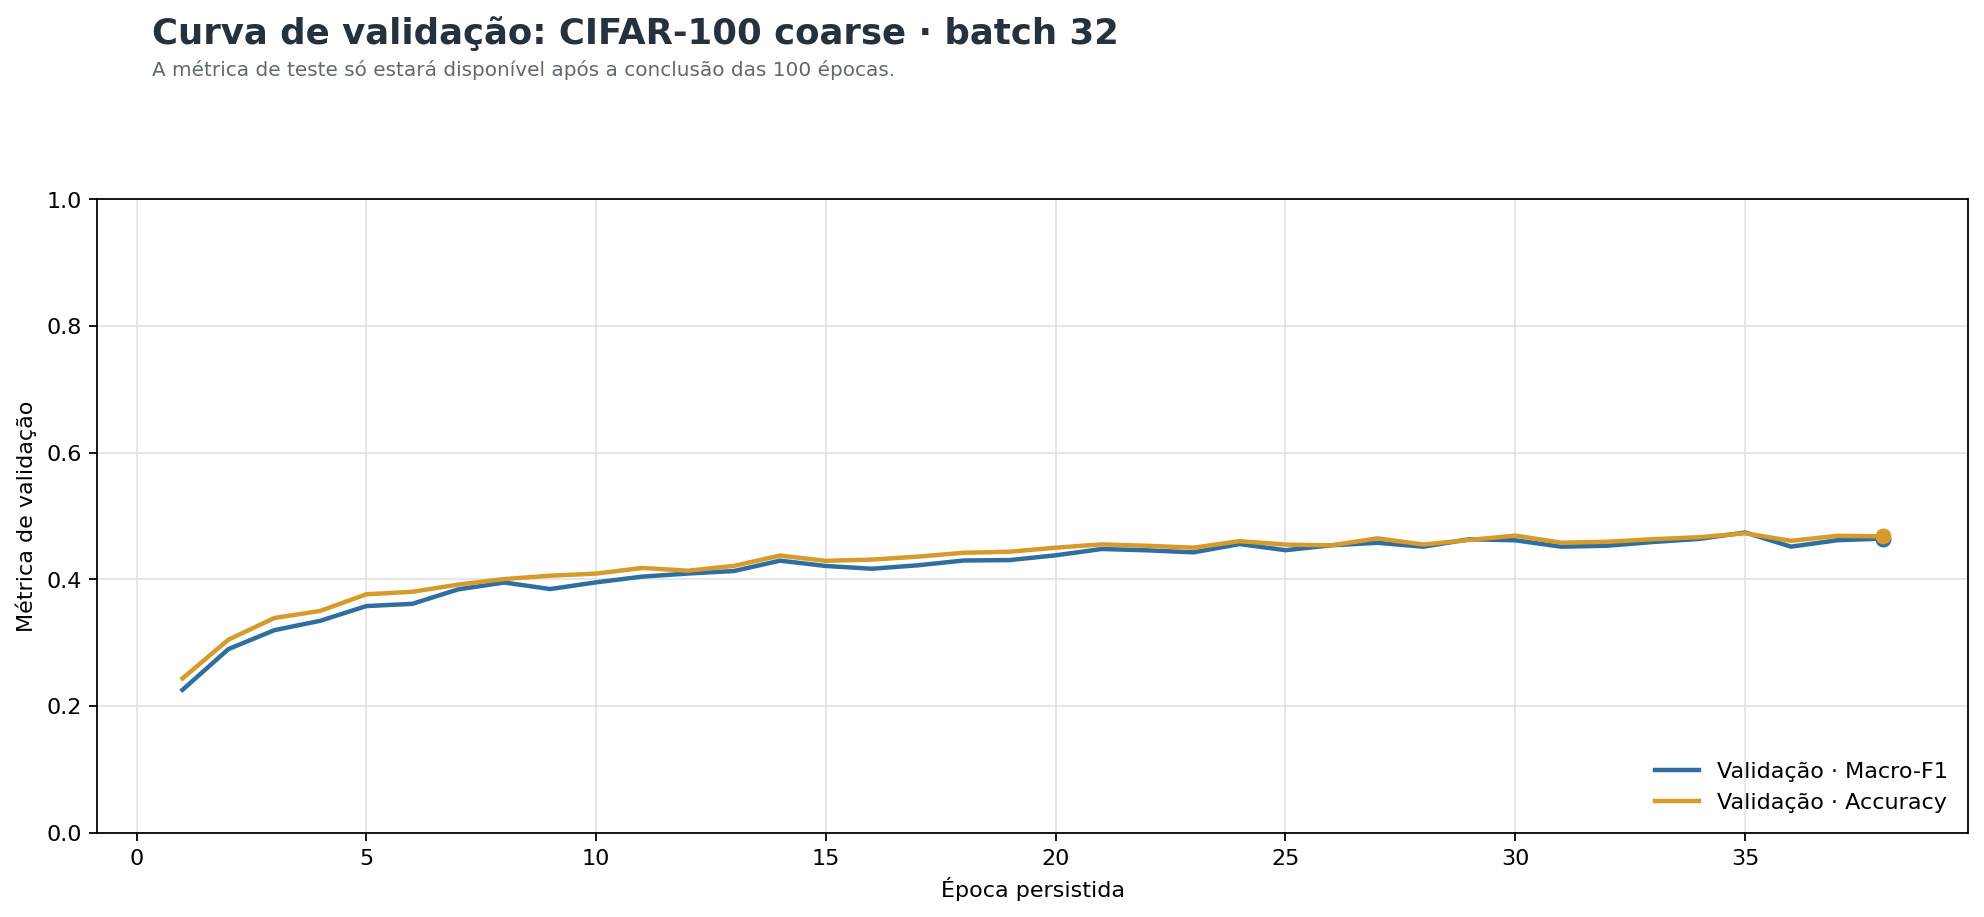
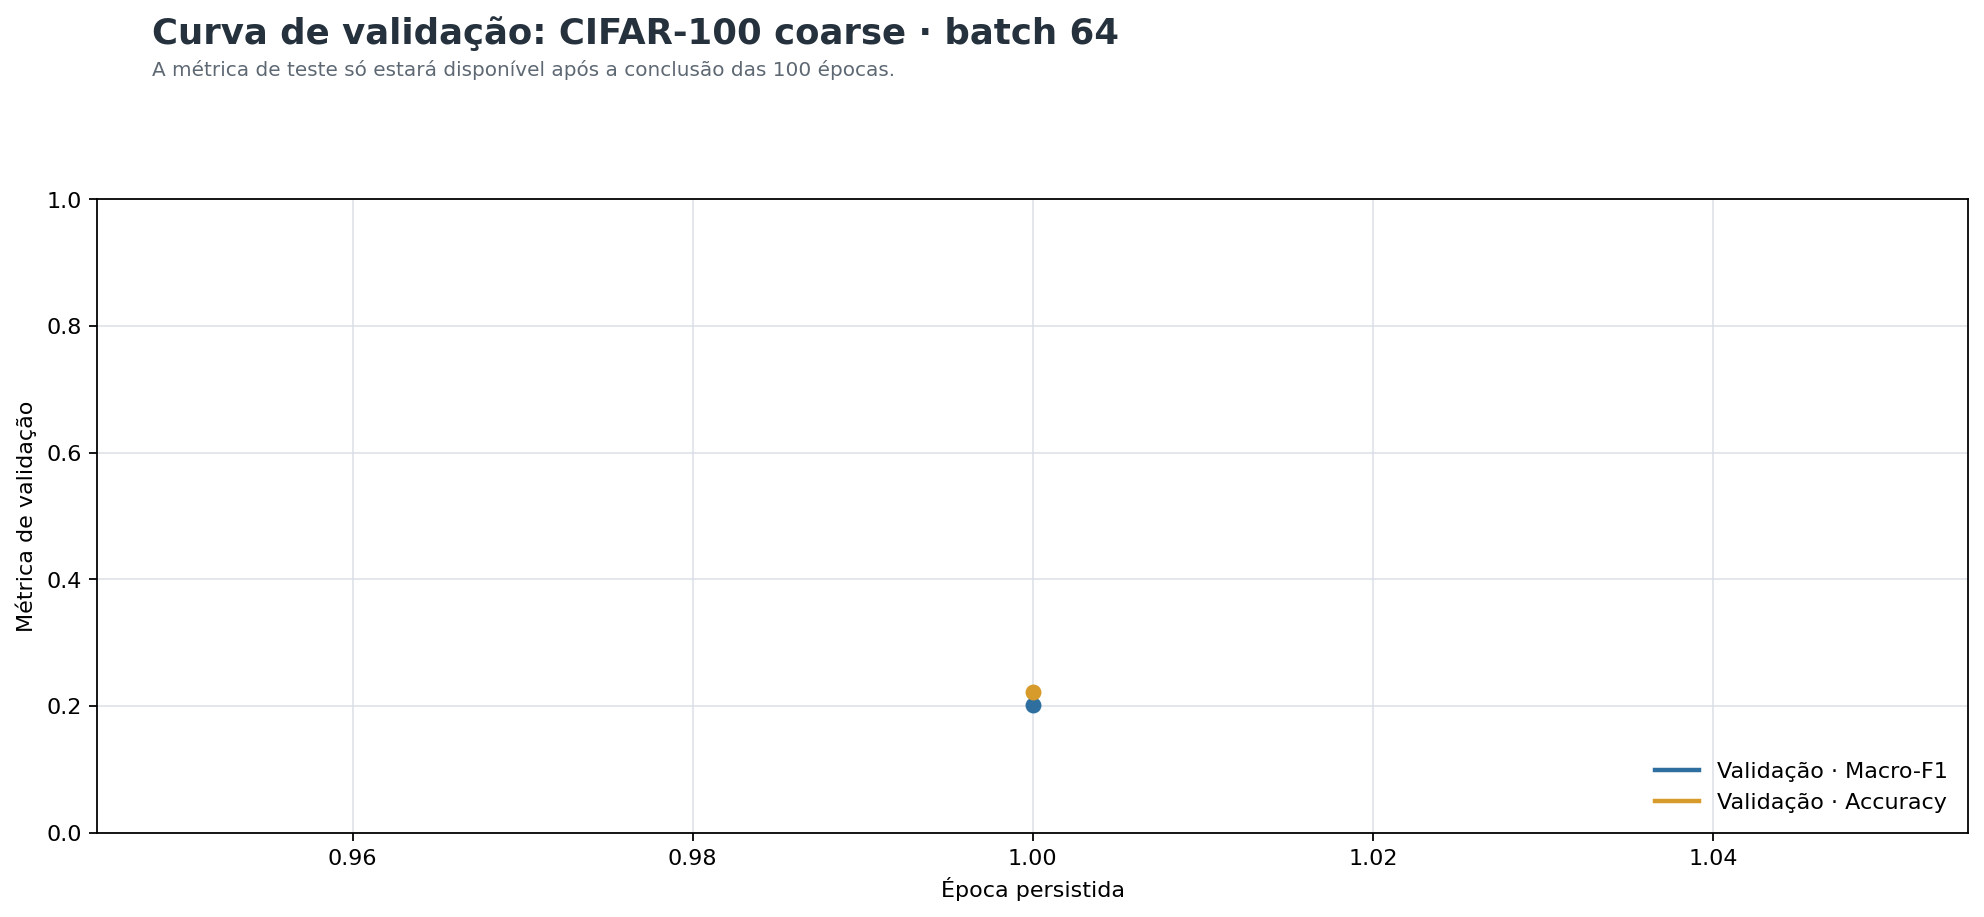
docs: atualizar progresso do treinamento em 14 de setembro

diff --git a/analysis_reports/relatorio_treinamento_2026-09-14.md b/analysis_reports/relatorio_treinamento_2026-09-14.md
@@ -1,0 +1,172 @@
+# Relatório técnico de progresso do treinamento — 14/09/2026
+
+## Resumo técnico
+
+O treinamento está ativo na fase de testes de batch. No snapshot de **14/09/2026 às 17:14 BRT**, o processo TensorFlow executava **CIFAR-100 coarse, batch 64**. O primeiro epoch já foi persistido e o segundo estava em andamento, aproximadamente no step 225/985.
+
+Há **16 resultados finais de batch em 36 células**. MNIST, Fashion-MNIST, KMNIST, EMNIST balanced e CIFAR-10 já possuem resultados parciais ou completos; CIFAR-10 foi concluído nos quatro batches. A matriz ainda possui cinco execuções parciais sem avaliação final e 14 células sem execução.
+
+A quantização ainda não começou: `quantization/` não possui arquivos. Ela está habilitada no comando atual, que contém `--skip-activation` mas não contém `--skip-quantization`. As ativações continuam separadas para o outro Mac.
+
+## Estado da matriz batch
+
+O experimento avalia 9 datasets × 4 tamanhos de batch (`32, 64, 128, 256`), totalizando 36 células.
+
+| Estado | Quantidade | Interpretação |
+|---|---:|---|
+| Concluídas com métricas finais | 16 | Possuem métricas de teste e artefatos finais |
+| Em execução real | 1 | CIFAR-100 coarse, batch 64 |
+| Parciais antigas | 5 | Possuem checkpoint, mas não avaliação final |
+| Não iniciadas | 14 | Sem checkpoint ou telemetria de treino |
+| **Total** | **36** | |
+
+Os 16 resultados finais representam **44,4% da matriz**. A célula ativa não deve ser contada como concluída até terminar as 100 epochs e a avaliação de teste.
+
+![Estado das 36 células de treinamento](charts/treinamento_matriz_status.png)
+
+## Processo ativo e métricas atuais
+
+- Supervisor: PID 48123, iniciado em **14/09/2026 17:04:54 BRT**.
+- Processo TensorFlow: PID 49513, iniciado em **14/09/2026 17:06:59 BRT**.
+- Célula ativa: `cifar100_coarse/batch-064`.
+- Último epoch persistido: **1/100**.
+- Últimas métricas persistidas: `val_accuracy = 0,2214` e `val_macro_f1 = 0,2009`.
+- Tempo do primeiro epoch: **364,9 s**.
+- Log ao vivo: segundo epoch avançando em aproximadamente **225/985 steps**, com cerca de 4:31 restantes naquele ponto.
+
+As métricas atuais são de validação e ainda não representam a qualidade final no conjunto de teste. A primeira epoch também sofre custo de inicialização; a previsão deve usar os próximos epochs, quando o tempo estabilizar.
+
+![Curva de validação do lote ativo](charts/treinamento_curva_validacao_lote_ativo.png)
+
+## Telemetria de hardware
+
+A telemetria está sendo capturada e salva em `telemetry/samples.csv`. Na amostra mais recente, às **17:14:52 BRT**, foram registrados:
+
+| Indicador | Valor |
+|---|---:|
+| CPU total do sistema | 33,9% |
+| CPU do processo | 76,2% |
+| RAM utilizada | 78,2% |
+| RSS do processo | 1,11 GiB |
+| Utilização GPU Apple M4 | 83% |
+| Memória alocada pelo driver Metal | 2,75 GiB |
+| Pressão térmica | `nominal` |
+
+Não há sinal de OOM, throttling térmico ou perda de telemetria no lote ativo. A CPU do processo pode variar acima de 100% quando o monitor agrega vários núcleos.
+
+![Telemetria do lote ativo](charts/treinamento_hardware_lote_ativo.png)
+
+## Resultados finais disponíveis
+
+| Dataset | Batches concluídos | Melhor Macro-F1 de teste | Melhor batch |
+|---|---|---:|---:|
+| MNIST | 32, 64, 256 | 0,9908 | 64 |
+| Fashion-MNIST | 128, 256 | 0,9112 | 128 |
+| KMNIST | 32, 64, 128, 256 | 0,9863 | 32 |
+| EMNIST balanced | 64, 128, 256 | 0,8780 | 64 |
+| CIFAR-10 | 32, 64, 128, 256 | 0,7235 | 32 |
+
+Os resultados confirmam que batches maiores reduzem o tempo por epoch, mas não garantem a maior precisão. A seleção do batch vencedor deve combinar Macro-F1 de teste, tempo de treino e latência, e ainda não pode ser fechada para os quatro datasets que não possuem resultados finais.
+
+![Tempo médio por época nas células concluídas](charts/treinamento_tempo_por_epoca.png)
+
+## Células parciais que exigem retomada
+
+Estas células possuem checkpoints, mas não possuem `test_metrics.json`:
+
+| Dataset | Batch | Último checkpoint observado | Situação |
+|---|---:|---:|---|
+| MNIST | 128 | 37 epochs | Execução antiga, marcada para retomada |
+| Fashion-MNIST | 32 | 2 epochs | Execução antiga, marcada para retomada |
+| Fashion-MNIST | 64 | 58 epochs | Execução antiga, marcada para retomada |
+| EMNIST balanced | 32 | 66 epochs | Execução antiga, marcada para retomada |
+| CIFAR-100 coarse | 32 | 66 epochs | Execução anterior, sem avaliação final |
+
+O supervisor atual foi iniciado sem `--resume`. O runtime identifica essas células como `skip_needs_resume` e passa adiante. Assim, ele continua executando a fila, mas a matriz não ficará completa se esses cinco checkpoints não forem retomados em uma execução explícita.
+
+## Células ainda não iniciadas
+
+As 14 células sem execução final são:
+
+- CIFAR-100 coarse: batches 128 e 256;
+- SVHN: batches 32, 64, 128 e 256;
+- GTSRB: batches 32, 64, 128 e 256;
+- FER2013: batches 32, 64, 128 e 256.
+
+Esses datasets concentram a incerteza da previsão porque ainda não há tempo de 100 epochs medido nesta configuração.
+
+## Quantização e ativações
+
+### Quantização
+
+A quantização ainda não começou. Como o comando atual não usa `--skip-quantization`, a sequência prevista após a fase batch é:
+
+1. Treino FP32 e FP16 para os 9 datasets, totalizando 18 treinos.
+2. Conversão e benchmark INT8 PTQ para cada dataset, totalizando 9 conversões/benchmarks.
+3. Seleção da variante dentro da tolerância de Macro-F1.
+
+### Ativações
+
+As ativações não serão executadas neste Mac. O comando usa `--skip-activation`, e não há artefatos em `activations/`. Essa fase permanece pendente para o outro Mac.
+
+## Qualidade dos dados
+
+Os 9 datasets passaram pela auditoria de leitura e estrutura com zero erros:
+
+| Dataset | Exemplos auditados | Erros | Alertas |
+|---|---:|---:|---:|
+| MNIST | 70.000 | 0 | 0 |
+| Fashion-MNIST | 70.000 | 0 | 0 |
+| KMNIST | 70.000 | 0 | 0 |
+| EMNIST balanced | 131.600 | 0 | 1 |
+| CIFAR-10 | 60.000 | 0 | 0 |
+| CIFAR-100 coarse | 60.000 | 0 | 2 |
+| SVHN | 99.289 | 0 | 2 |
+| GTSRB | 39.270 | 0 | 0 |
+| FER2013 | 35.887 | 0 | 2 |
+
+Os alertas são duplicatas detectadas pela auditoria. CIFAR-100 coarse, SVHN e FER2013 também apresentam duplicatas com rótulos conflitantes; isso não bloqueia o treinamento, mas deve ser considerado na interpretação das métricas finais.
+
+## Interrupções e observabilidade
+
+O processo atual está ativo e o `pipeline.log` continua recebendo dados. Não foram encontrados `KeyboardInterrupt`, `SIGTERM`, `SIGKILL`, `Killed`, `Traceback`, `OutOfMemory` ou falha fatal equivalente no log.
+
+Há registros de processos anteriores que terminaram sem uma transição final clara no `pipeline-status.json`. O motivo exato dessas interrupções não está registrado. Também há cinco células antigas marcadas como `running`, mas sem processo correspondente; elas são checkpoints parciais, não treinos ativos.
+
+O `pipeline-status.json` permanece com `stages: {}` e não deve ser usado sozinho para determinar o progresso. A fonte de evidência é a combinação de processos ativos, logs, checkpoints, `status.json`, métricas por epoch e telemetria.
+
+## Previsão de término
+
+As estimativas assumem execução serial, configuração inalterada e ausência de nova interrupção.
+
+| Marco | Previsão | Confiança |
+|---|---|---|
+| CIFAR-100 coarse batch 64 atual | 15/09, aproximadamente 02:30–04:00 BRT | Média/baixa |
+| Matriz batch visitada pelo supervisor, sem retomar os 5 parciais | 22/09–02/10 | Baixa |
+| Matriz batch completa, incluindo os 5 parciais | Após a faixa acima | Baixa |
+| Batch + quantização, sem ativações | 29/09–16/10 | Baixa |
+| Experimento completo com ativações | Não estimável neste Mac | — |
+
+A faixa é ampla porque SVHN, GTSRB e FER2013 ainda não têm tempos reais nesta configuração. O primeiro resultado completo de cada dataset permitirá recalcular a previsão com maior precisão.
+
+## O que falta
+
+1. Finalizar CIFAR-100 coarse batch 64 e os batches 128/256.
+2. Executar os quatro batches de SVHN, GTSRB e FER2013.
+3. Retomar as cinco células parciais com `--resume` se todos os 36 batches forem obrigatórios.
+4. Consolidar os vencedores de batch por dataset.
+5. Executar a quantização habilitada no comando atual.
+6. Executar e consolidar as ativações no outro Mac.
+7. Atualizar o estado consolidado após o término das fases.
+
+## Evidências consultadas
+
+- `outputs/controlled-augmentation2-mac-m4-aug05/logs/pipeline.log`
+- `outputs/controlled-augmentation2-mac-m4-aug05/pipeline-status.json`
+- `outputs/controlled-augmentation2-mac-m4-aug05/batch/**/status.json`
+- `outputs/controlled-augmentation2-mac-m4-aug05/batch/**/checkpoints/epoch_metrics.csv`
+- `outputs/controlled-augmentation2-mac-m4-aug05/batch/**/telemetry/samples.csv`
+- `outputs/controlled-augmentation2-mac-m4-aug05/batch/**/logs/training_summary.json`
+- `outputs/controlled-augmentation2-mac-m4-aug05/audit/*/audit/audit.json`
+- `scripts/run_controlled_pipeline.py`
+- `src/tcc_benchmark/controlled.py`
